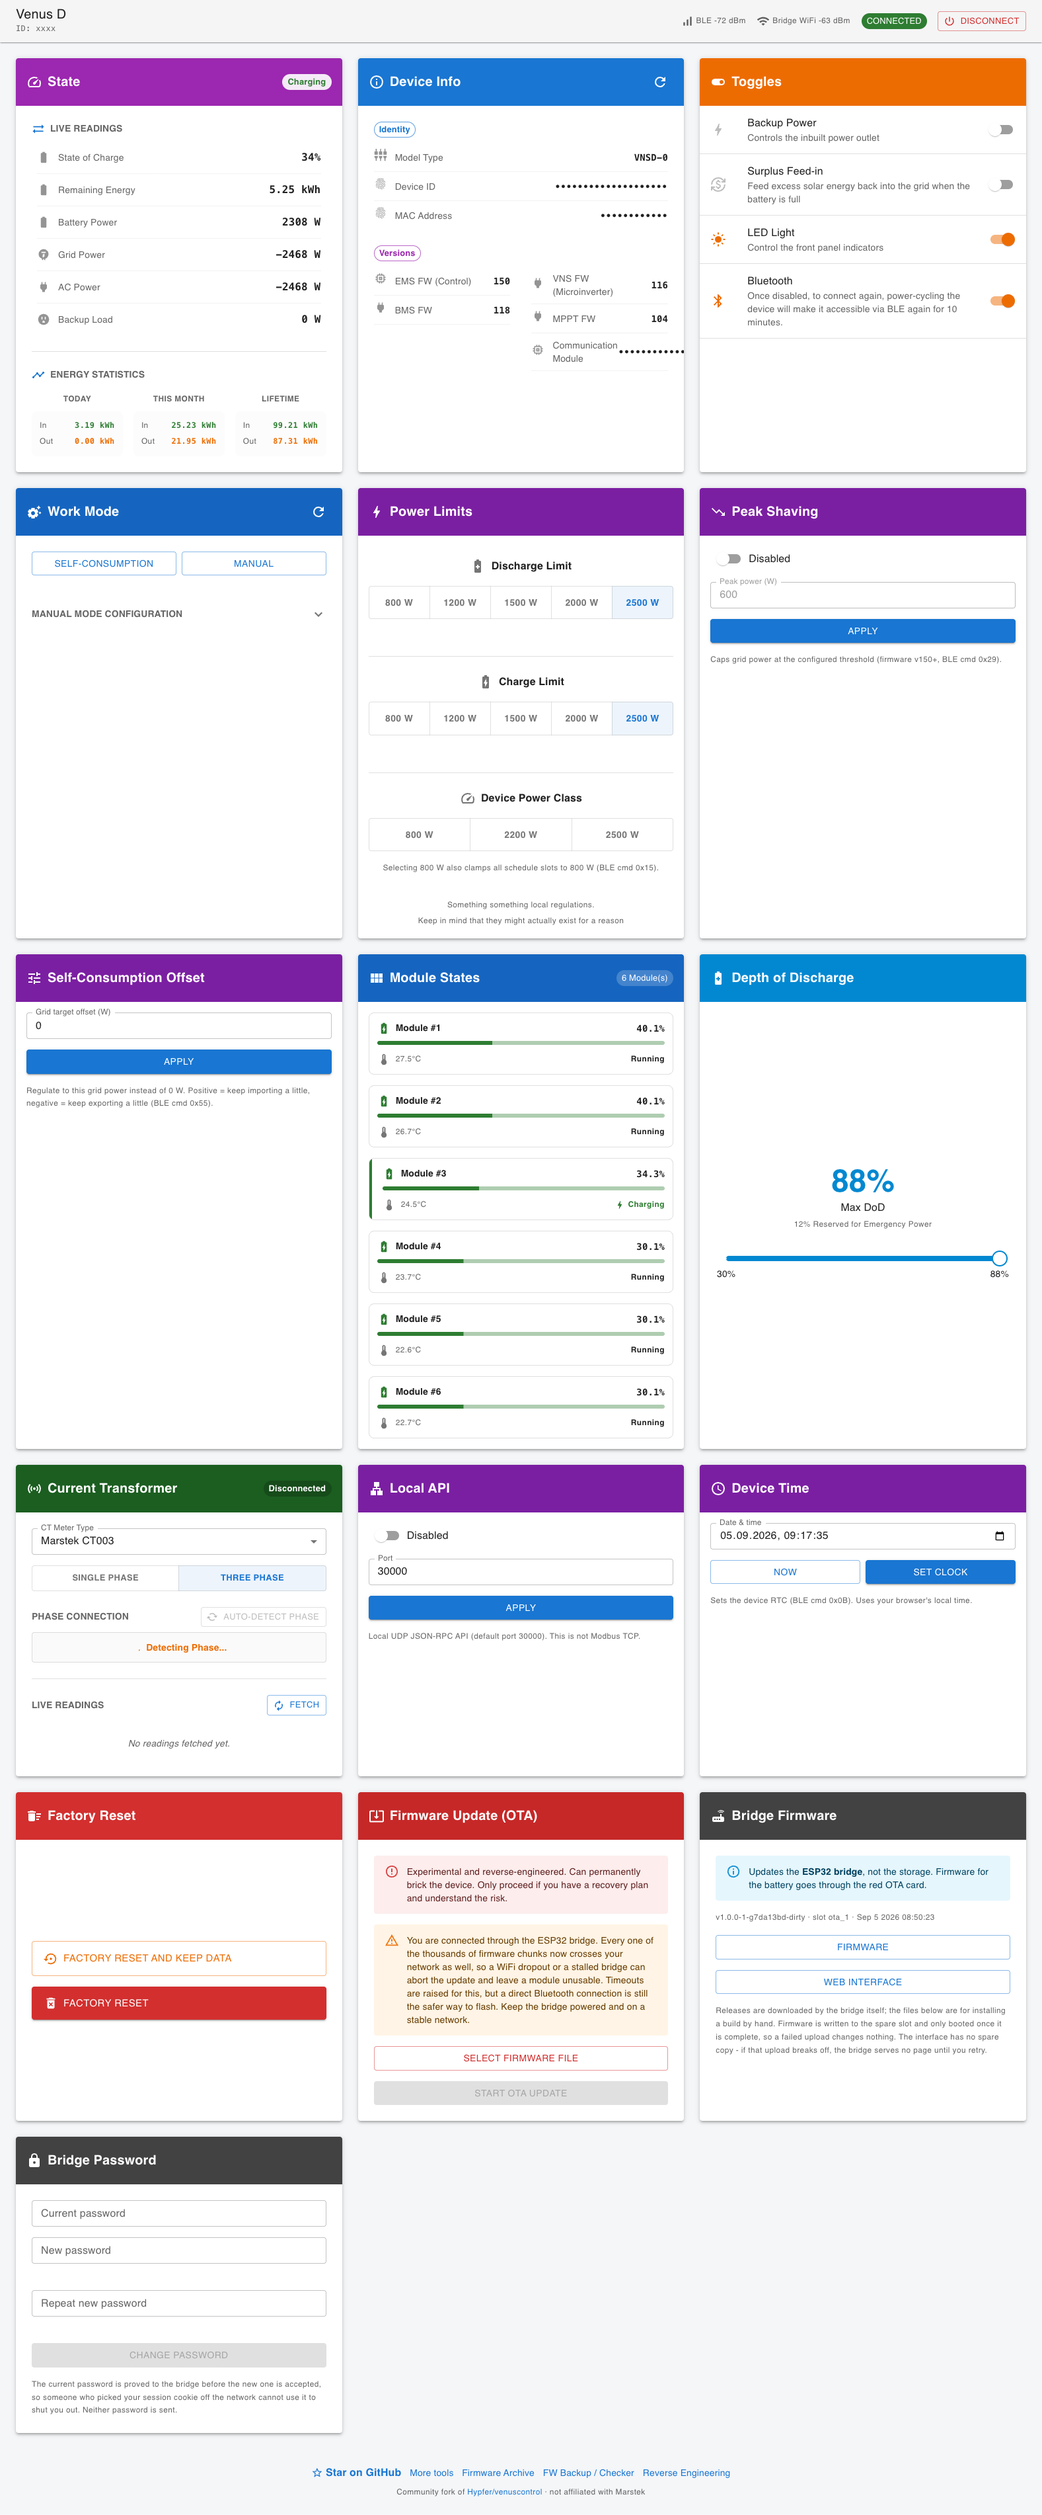
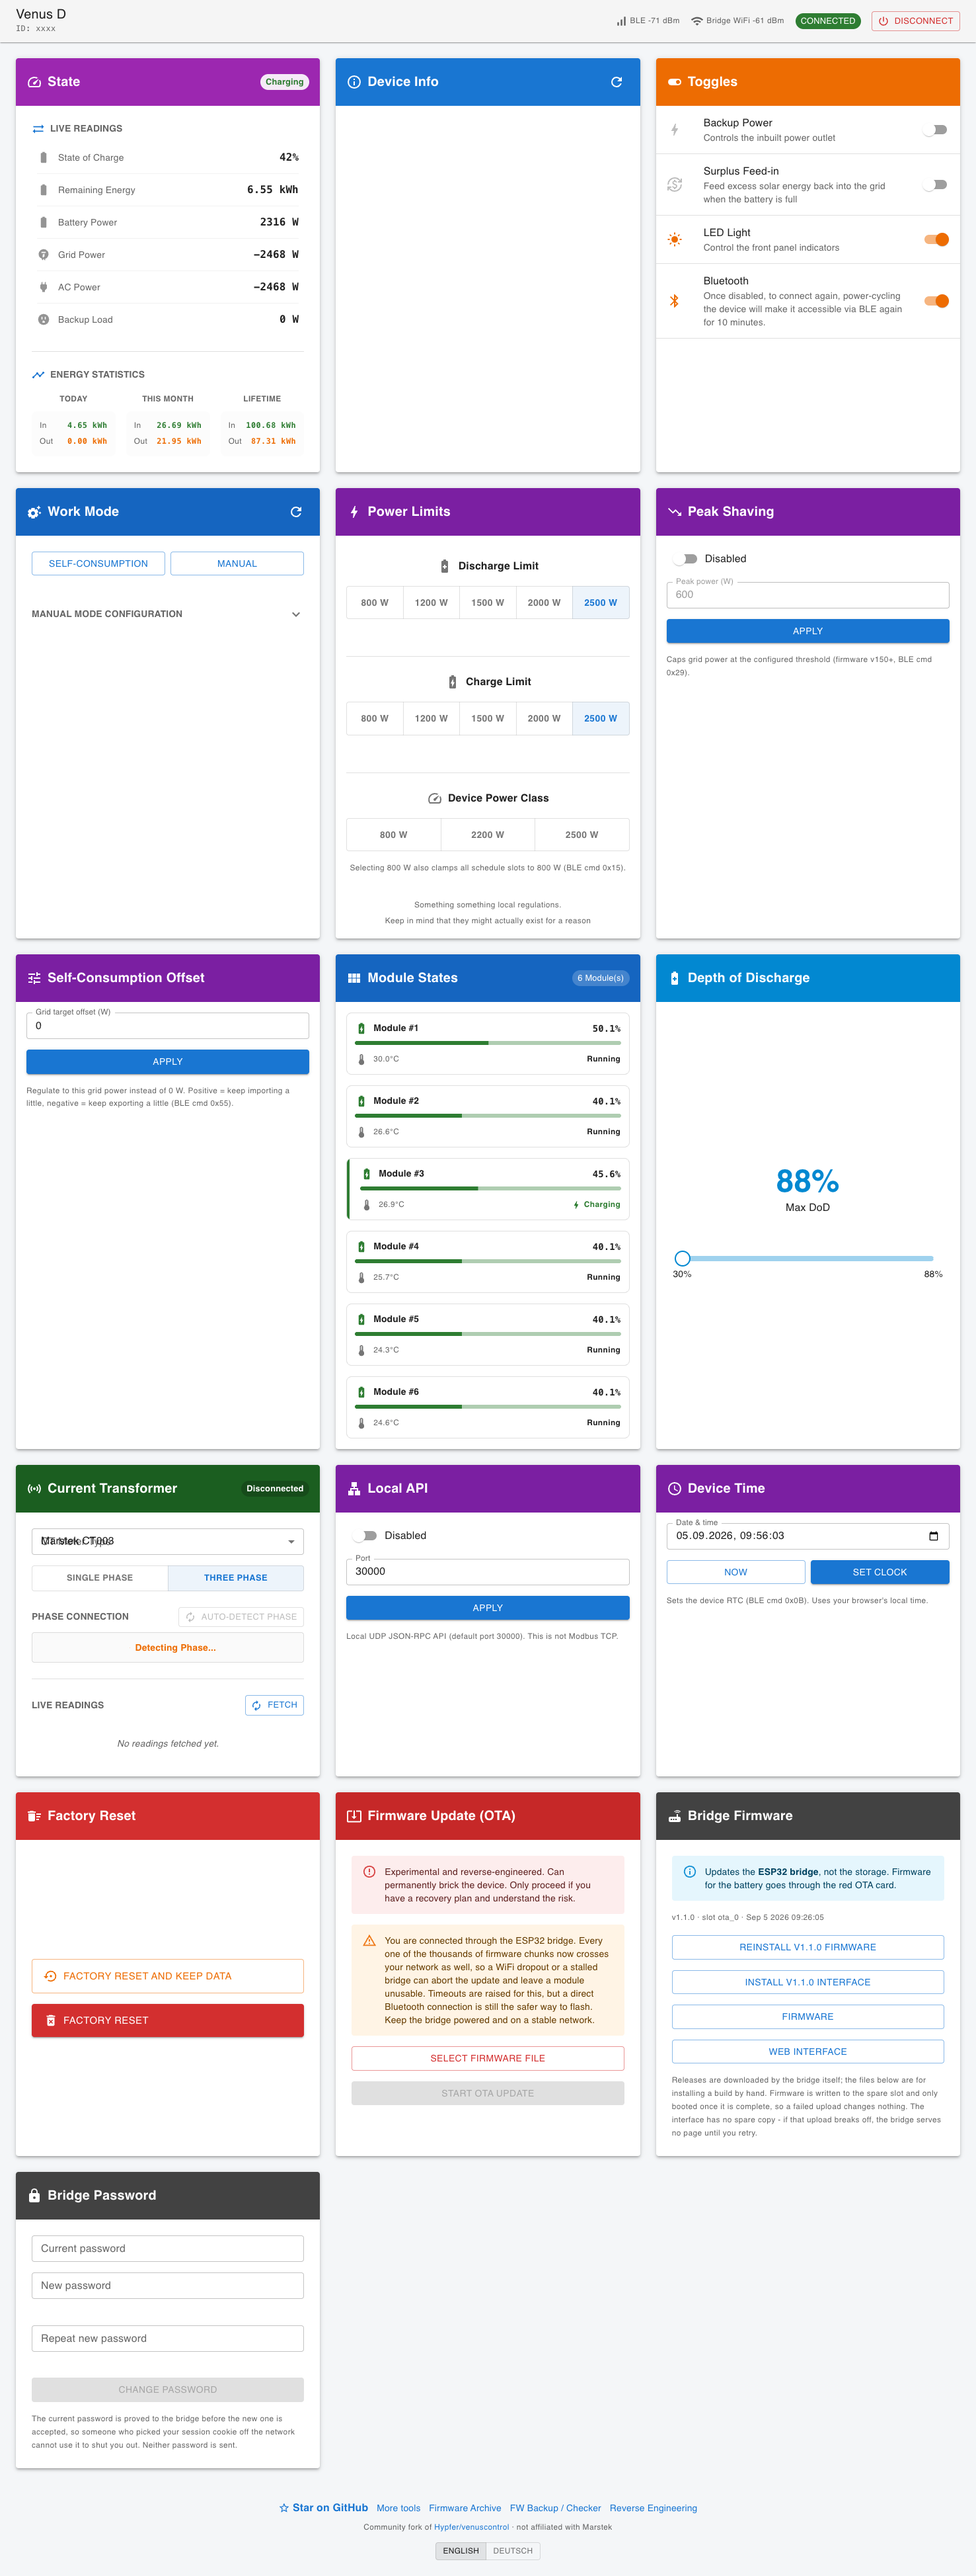
Fresh screenshots, and the interface now speaks German too

diff --git a/README.de.md b/README.de.md
@@ -52,7 +52,7 @@ Netzwerk weiter und liefert [Marstek BLE Control](https://github.com/sphings79/m
 
 <div align="center">
 
-<img alt="Das Bedienfeld über die Bridge auf einem Smartphone: Ladezustand, Batterie- und Netzleistung, und das WLAN-Signal der Bridge neben dem Bluetooth-Signal" src="https://raw.githubusercontent.com/sphings79/marstek-ble-bridge/master/docs/img/dashboard-mobile.png" height="620">
+<img alt="Das Bedienfeld über die Bridge auf einem Smartphone: Ladezustand, Batterie- und Netzleistung, und das WLAN-Signal der Bridge neben dem Bluetooth-Signal" src="https://raw.githubusercontent.com/sphings79/marstek-ble-bridge/master/docs/img/dashboard-mobile-de.png" height="620">
 
 </div>
 
@@ -61,7 +61,7 @@ Netzwerk weiter und liefert [Marstek BLE Control](https://github.com/sphings79/m
 
 <div align="center">
 
-<img alt="Das vollständige von der Bridge ausgelieferte Bedienfeld, am Ende die Karten Bridge Firmware und Bridge Password" src="https://raw.githubusercontent.com/sphings79/marstek-ble-bridge/master/docs/img/dashboard-desktop.png" width="100%">
+<img alt="Das vollständige von der Bridge ausgelieferte Bedienfeld, am Ende die Karten Bridge Firmware und Bridge Password" src="https://raw.githubusercontent.com/sphings79/marstek-ble-bridge/master/docs/img/dashboard-desktop-de.png" width="100%">
 
 </div>
 
@@ -115,6 +115,9 @@ entwickelt wurde auf einem — sind aber die unbequeme Wahl: kleine Antenne, und
 die einbricht, sobald das Funkmodul anläuft. Deshalb ist die Sendeleistung ab Werk niedrig
 gedeckelt; bei solidem Netzteil `BRIDGE_WIFI_MAX_TX_POWER` hochsetzen und die Reichweite
 zurückholen.
+
+Die ausgelieferte Oberfläche gibt es auf **Englisch und Deutsch** — sie richtet sich nach dem
+Browser und ist jederzeit umschaltbar.
 
 ## Updates
 

diff --git a/README.md b/README.md
@@ -114,6 +114,9 @@ developed on one — but they are the awkward choice: small antenna, and a 5 V r
 the moment the radio starts. Which is why transmit power ships capped low; if your supply is
 solid, raise `BRIDGE_WIFI_MAX_TX_POWER` and get the range back.
 
+The interface it serves is in **English and German**, following the browser and switchable at any
+time.
+
 ## Updates
 
 The bridge updates itself over WiFi. New releases show up in the interface with a link to the
